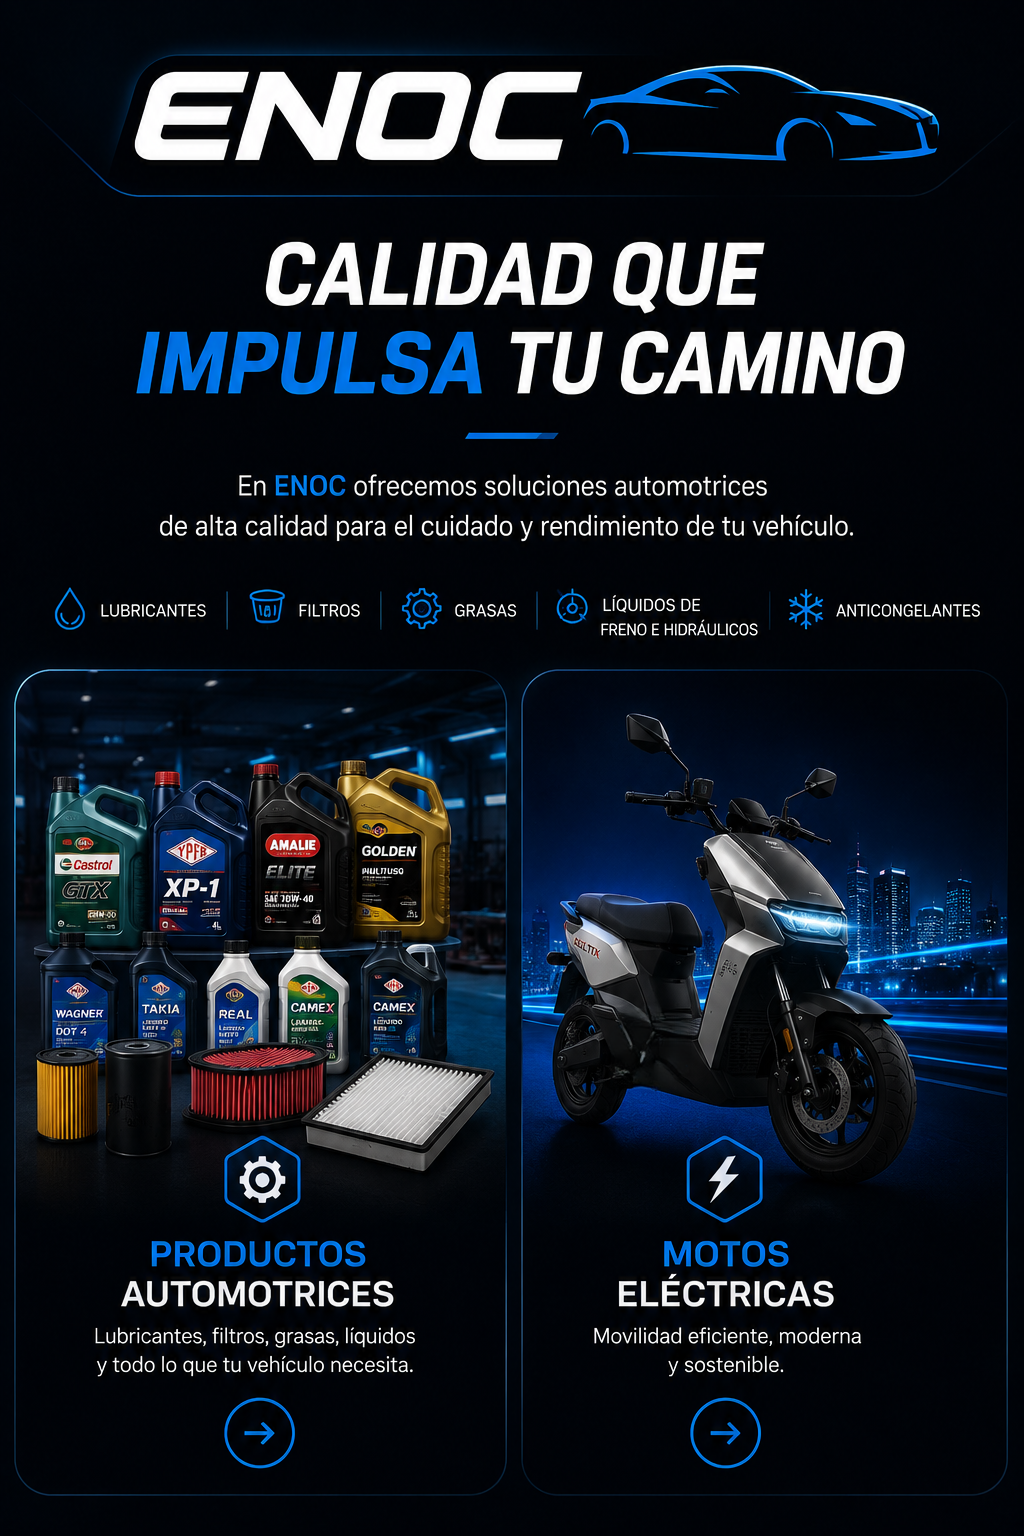
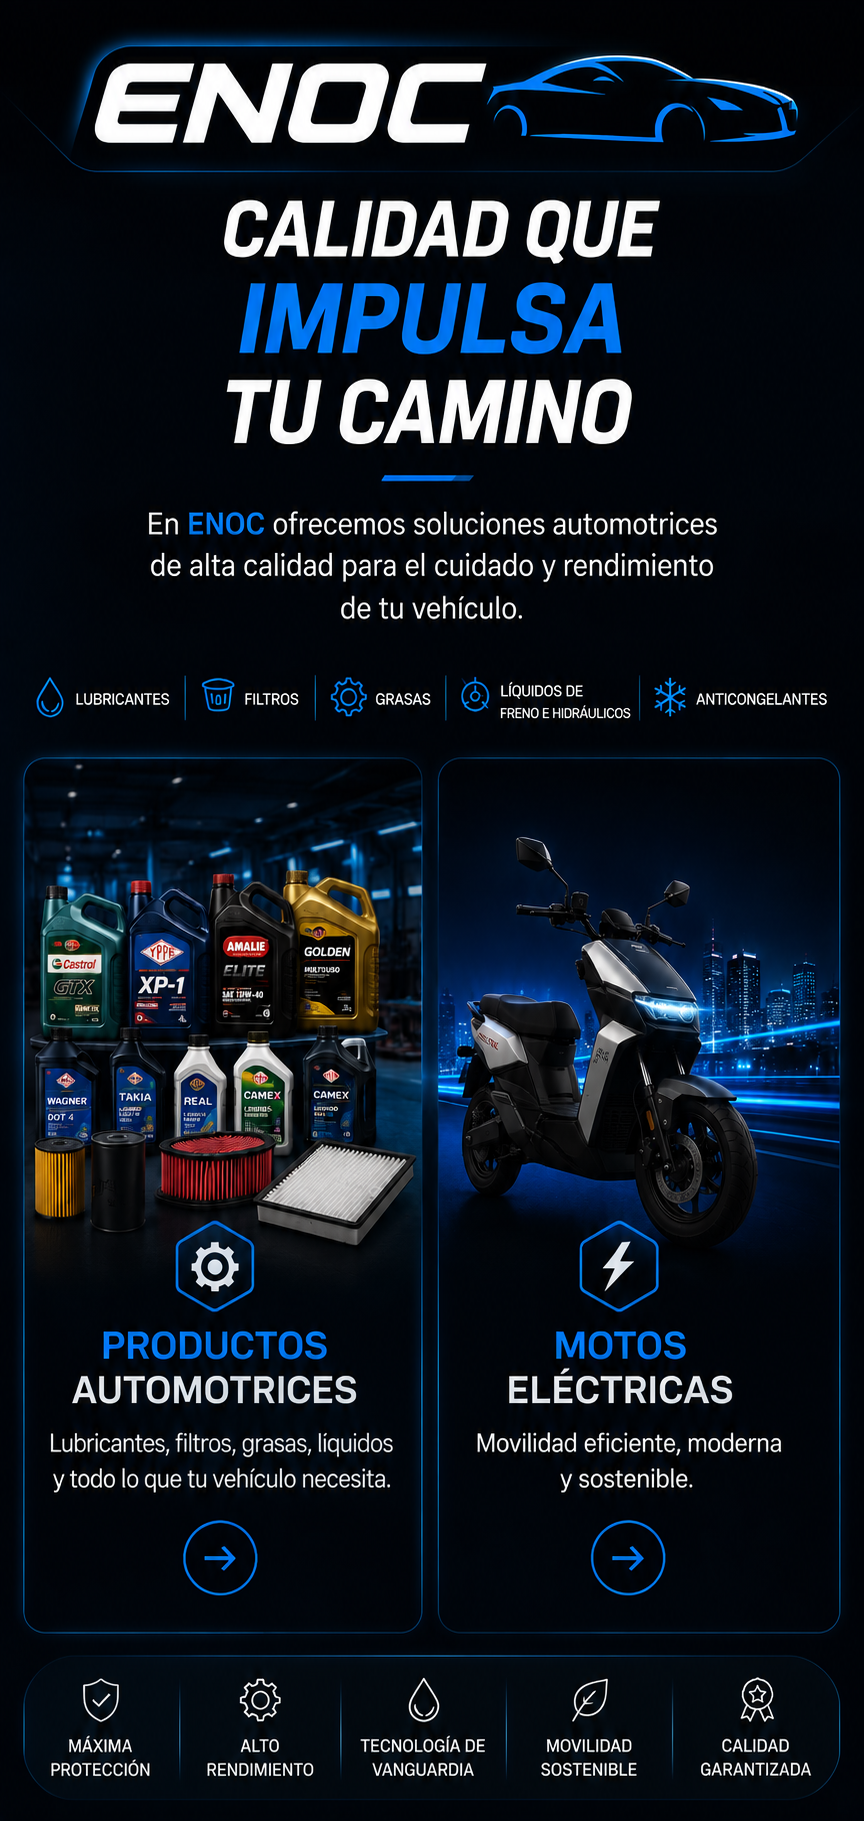
v1030726

diff --git a/style.css b/style.css
@@ -412,11 +412,11 @@ opacity:1;
 
 left:2%;
 
-bottom:0.5%;
+bottom:10%;
 
 width:47.5%;
 
-height:56%;
+height:48.5%;
 
 border-radius:40px;
 
@@ -428,11 +428,11 @@ border-radius:40px;
 
 right:2%;
 
-bottom:0.5%;
+bottom:10%;
 
 width:47.5%;
 
-height:56%;
+height:48.5%;
 
 border-radius:40px;
 
